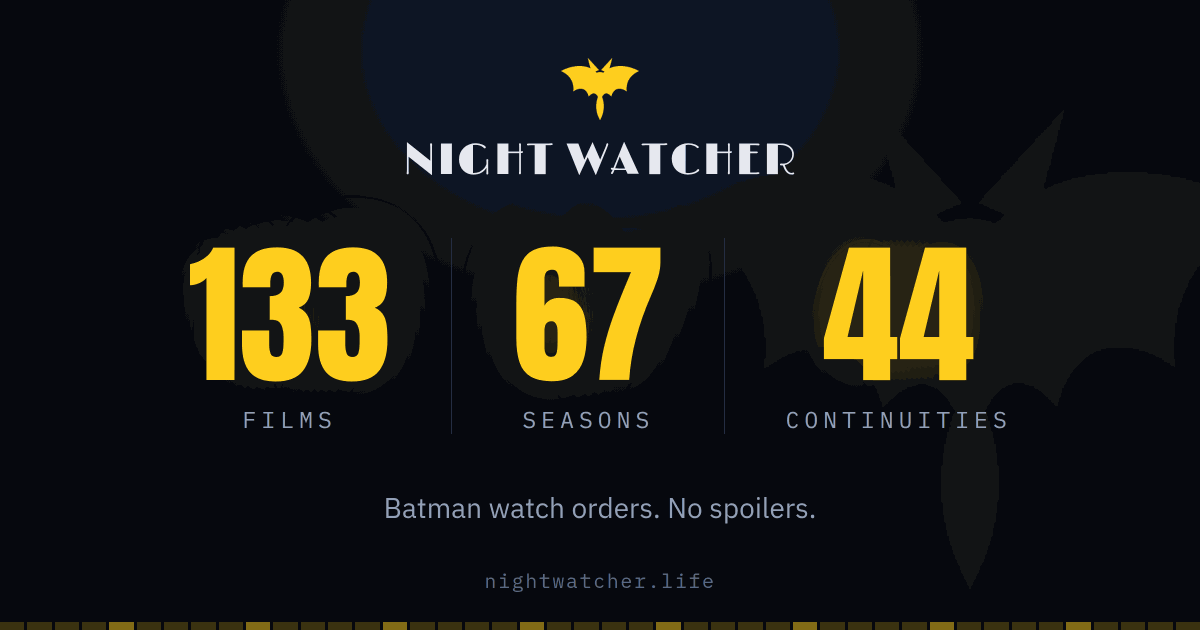
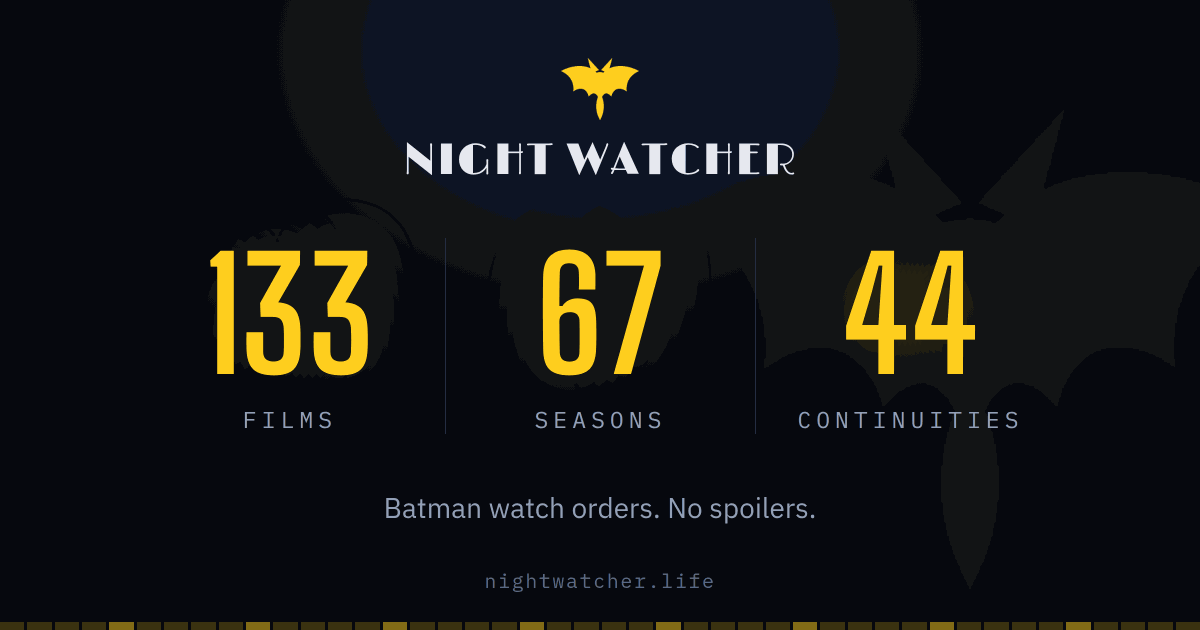
Add files via upload

diff --git a/docs/index.html b/docs/index.html
@@ -7,6 +7,7 @@
 <meta name="mobile-web-app-capable" content="yes">
 <link rel="preload" as="font" type="font/woff2" crossorigin href="fonts/limelight-latin-400-normal.woff2">
 <link rel="preload" as="font" type="font/woff2" crossorigin href="fonts/anton-latin-400-normal.woff2">
+<link rel="preload" as="font" type="font/woff2" crossorigin href="fonts/big-shoulders-display-latin-700-normal.woff2">
 <link rel="preload" as="font" type="font/woff2" crossorigin href="fonts/ibm-plex-sans-latin-400-normal.woff2">
 <link rel="preload" as="font" type="font/woff2" crossorigin href="fonts/ibm-plex-sans-latin-600-normal.woff2">
 <link rel="preload" as="font" type="font/woff2" crossorigin href="fonts/ibm-plex-mono-latin-400-normal.woff2">
@@ -41,7 +42,7 @@
 <meta name="application-name" content="Night Watcher">
 <meta name="msapplication-TileColor" content="#0C111C">
 <meta name="msapplication-TileImage" content="mstile-144x144.png">
-<meta http-equiv="Content-Security-Policy" content="default-src 'none'; script-src 'sha256-JKWD1oCQi6ymI3CISQGVk/Qqv24mOXrK3QKauN0BgAQ='; style-src 'self' 'unsafe-inline'; font-src 'self'; img-src 'self'; manifest-src 'self'; worker-src 'self'; base-uri 'none'; form-action 'none'; object-src 'none'">
+<meta http-equiv="Content-Security-Policy" content="default-src 'none'; script-src 'sha256-DCxVBzgyVPyZOkvjaK7fcqhZs13SBHVIpZQlPssrEuI='; style-src 'self' 'unsafe-inline'; font-src 'self'; img-src 'self'; manifest-src 'self'; worker-src 'self'; base-uri 'none'; form-action 'none'; object-src 'none'">
 <meta name="referrer" content="strict-origin-when-cross-origin">
 <script type="application/ld+json">{"@context":"https://schema.org","@graph":[{"@type":"WebSite","name":"Night Watcher","url":"https://nightwatcher.life/","description":"Batman watch orders. No spoilers."},{"@type":"WebApplication","name":"Night Watcher","url":"https://nightwatcher.life/","applicationCategory":"EntertainmentApplication","image":"https://nightwatcher.life/share.png","dateModified":"2026-08-18","author":{"@type":"Person","name":"6ummy-Dev","url":"https://github.com/6ummy-Dev"},"creator":{"@type":"Person","name":"6ummy-Dev","url":"https://github.com/6ummy-Dev"},"sameAs":["https://github.com/6ummy-Dev/Night-Watcher","https://x.com/6ummy"],"operatingSystem":"Any","browserRequirements":"Requires JavaScript","isAccessibleForFree":true,"featureList":["No account and no sign-in","No advertising and nothing tracking what you watch","Progress stays in your browser and is never sent anywhere","Works offline","Spoiler-safe ordering by continuity"],"description":"Every Batman story — 133 films and 67 seasons of TV across 44 continuities — in watch orders, no spoilers. By universe, by the arc of one life, or by release."},{"@type":"ItemList","name":"The essentials and the core route","description":"The 74 curated Batman titles — every essential and the whole core route — in spoiler-safe order.","numberOfItems":74,"itemListOrder":"https://schema.org/ItemListOrderAscending","itemListElement":[{"@type":"ListItem","position":1,"name":"Gotham (2014)"},{"@type":"ListItem","position":2,"name":"Batman: The Animated Series (1992)"},{"@type":"ListItem","position":3,"name":"Batman: Mask of the Phantasm (1993)"},{"@type":"ListItem","position":4,"name":"Batman & Mr. Freeze: SubZero (1998)"},{"@type":"ListItem","position":5,"name":"The New Batman Adventures (1998)"},{"@type":"ListItem","position":6,"name":"Batman: Mystery of the Batwoman (2003)"},{"@type":"ListItem","position":7,"name":"Batman Beyond (1999)"},{"@type":"ListItem","position":8,"name":"Batman Beyond: Return of the Joker (2000)"},{"@type":"ListItem","position":9,"name":"Justice League (2001)"},{"@type":"ListItem","position":10,"name":"Justice League Unlimited (2006)"},{"@type":"ListItem","position":11,"name":"Batman and Harley Quinn (2017)"},{"@type":"ListItem","position":12,"name":"Batman: Year One (2011)"},{"@type":"ListItem","position":13,"name":"Batman: The Killing Joke (2016)"},{"@type":"ListItem","position":14,"name":"Batman: Under the Red Hood (2010)"},{"@type":"ListItem","position":15,"name":"Batman: Death in the Family (2020)"},{"@type":"ListItem","position":16,"name":"The Dark Knight Returns — Part One (2012)"},{"@type":"ListItem","position":17,"name":"The Dark Knight Returns — Part Two (2013)"},{"@type":"ListItem","position":18,"name":"Batman: The Long Halloween — Part One (2021)"},{"@type":"ListItem","position":19,"name":"Batman: The Long Halloween — Part Two (2021)"},{"@type":"ListItem","position":20,"name":"Justice League: Warworld (2023)"},{"@type":"ListItem","position":21,"name":"Crisis on Infinite Earths — Part One (2024)"},{"@type":"ListItem","position":22,"name":"Crisis on Infinite Earths — Part Two (2024)"},{"@type":"ListItem","position":23,"name":"Crisis on Infinite Earths — Part Three (2024)"},{"@type":"ListItem","position":24,"name":"Batman: Gotham Knight (2008)"},{"@type":"ListItem","position":25,"name":"Batman: Gotham by Gaslight (2018)"},{"@type":"ListItem","position":26,"name":"Batman vs. Teenage Mutant Ninja Turtles (2019)"},{"@type":"ListItem","position":27,"name":"Batman: Soul of the Dragon (2021)"},{"@type":"ListItem","position":28,"name":"Injustice (2021)"},{"@type":"ListItem","position":29,"name":"The Doom That Came to Gotham (2023)"},{"@type":"ListItem","position":30,"name":"Aztec Batman: Clash of Empires (2025)"},{"@type":"ListItem","position":31,"name":"Dynamic Duo (2028)"},{"@type":"ListItem","position":32,"name":"The Batman vs. Dracula (2005)"},{"@type":"ListItem","position":33,"name":"Batman: Caped Crusader (2024)"},{"@type":"ListItem","position":34,"name":"Batman Begins (2005)"},{"@type":"ListItem","position":35,"name":"The Dark Knight (2008)"},{"@type":"ListItem","position":36,"name":"The Dark Knight Rises (2012)"},{"@type":"ListItem","position":37,"name":"The Batman (2022)"},{"@type":"ListItem","position":38,"name":"The Penguin (2024)"},{"@type":"ListItem","position":39,"name":"The Batman: Part II (2028)"},{"@type":"ListItem","position":40,"name":"Batman (1989)"},{"@type":"ListItem","position":41,"name":"Batman Returns (1992)"},{"@type":"ListItem","position":42,"name":"The LEGO Batman Movie (2017)"},{"@type":"ListItem","position":43,"name":"Batman (1943)"},{"@type":"ListItem","position":44,"name":"Batman — Complete series (1966)"},{"@type":"ListItem","position":45,"name":"Batman (1966)"},{"@type":"ListItem","position":46,"name":"Return of the Caped Crusaders (2016)"},{"@type":"ListItem","position":47,"name":"Batman vs. Two-Face (2017)"},{"@type":"ListItem","position":48,"name":"Batman: Assault on Arkham (2014)"},{"@type":"ListItem","position":49,"name":"Batman: Knightfall — Part 1 (2026)"},{"@type":"ListItem","position":50,"name":"Knightfall — Part 2: Knightquest (2026)"},{"@type":"ListItem","position":51,"name":"Knightfall — Part 3: KnightsEnd (2027)"},{"@type":"ListItem","position":52,"name":"Justice League: The New Frontier (2008)"},{"@type":"ListItem","position":53,"name":"Justice League: Crisis on Two Earths (2010)"},{"@type":"ListItem","position":54,"name":"Justice League: Doom (2012)"},{"@type":"ListItem","position":55,"name":"Justice League: Gods and Monsters (2015)"},{"@type":"ListItem","position":56,"name":"LEGO Batman: DC Super Heroes Unite (2013)"},{"@type":"ListItem","position":57,"name":"Challenge of the Super Friends (1978)"},{"@type":"ListItem","position":58,"name":"Batman: The Brave and the Bold (2008)"},{"@type":"ListItem","position":59,"name":"Scooby-Doo and Batman: The Brave and the Bold (2018)"},{"@type":"ListItem","position":60,"name":"Superman/Batman: Public Enemies (2009)"},{"@type":"ListItem","position":61,"name":"Superman/Batman: Apocalypse (2010)"},{"@type":"ListItem","position":62,"name":"Son of Batman (2014)"},{"@type":"ListItem","position":63,"name":"Batman vs. Robin (2015)"},{"@type":"ListItem","position":64,"name":"Batman: Bad Blood (2016)"},{"@type":"ListItem","position":65,"name":"Batman: Hush (2019)"},{"@type":"ListItem","position":66,"name":"LEGO DC Comics: Batman Be-Leaguered (2014)"},{"@type":"ListItem","position":67,"name":"Justice League: Gotham City Breakout (2016)"},{"@type":"ListItem","position":68,"name":"LEGO DC Batman: Family Matters (2019)"},{"@type":"ListItem","position":69,"name":"Young Justice (2010)"},{"@type":"ListItem","position":70,"name":"Batman v Superman: Dawn of Justice (2016)"},{"@type":"ListItem","position":71,"name":"Justice League (2017)"},{"@type":"ListItem","position":72,"name":"Batman Ninja (2018)"},{"@type":"ListItem","position":73,"name":"Batman Ninja vs. Yakuza League (2025)"},{"@type":"ListItem","position":74,"name":"Merry Little Batman (2023)"}]},{"@type":"FAQPage","mainEntity":[{"@type":"Question","name":"Which order should I watch Batman in?","acceptedAnswer":{"@type":"Answer","text":"Three honest answers instead of one fake one. By universe: Every universe kept whole, each in its own story order, and the universes themselves in the order their stories start. Bruce’s life: One life, in order — from before there is a Batman to after there is not. Release order: Straight release order, 1943–2028."}},{"@type":"Question","name":"Does this include the animated series?","acceptedAnswer":{"@type":"Answer","text":"Yes — all of it. 67 seasons of television ride alongside the 133 films, animated and live action both, and a switch narrows the shelf whenever you want it narrower."}},{"@type":"Question","name":"Do I have to watch everything?","acceptedAnswer":{"@type":"Answer","text":"No. 74 titles are marked as the essentials and the core route — the spine of the thing. Everything else is optional side material, labelled as exactly that."}},{"@type":"Question","name":"Is it really spoiler-safe?","acceptedAnswer":{"@type":"Answer","text":"That is the whole premise. Universes stay whole, and every ordering is built so nothing renders ahead of an entry it would give away."}},{"@type":"Question","name":"Where can I watch all of these?","acceptedAnswer":{"@type":"Answer","text":"Availability changes constantly and differs by country, so nothing here stores an answer that would rot — every entry carries a fresh where-to-watch search instead."}},{"@type":"Question","name":"Does it track what I watch?","acceptedAnswer":{"@type":"Answer","text":"No. There is no account and no sign-in, no advertising, and nothing tracking what you watch. What you tick stays in your browser and is never sent anywhere. It works offline, and it is free software under the AGPL."}},{"@type":"Question","name":"Will my progress still be here later — on another device, or if I clear my browser?","acceptedAnswer":{"@type":"Answer","text":"In this browser, yes — what you tick is saved locally and waiting when you come back. It does not travel to other browsers or devices, and clearing this browser’s data clears it, because nothing is ever kept on a server. Progress carries a code you can copy from the Progress tab and paste into another browser to move it or keep a backup."}},{"@type":"Question","name":"Is there an app, an account, or an API?","acceptedAnswer":{"@type":"Answer","text":"No account and no sign-in — nothing to register and nothing to log into. It is one web page that runs entirely in your browser, and you can install it to your home screen like an app. There is no API; every page and file the site serves is public and identical for everyone."}},{"@type":"Question","name":"Where do the Joker films fit?","acceptedAnswer":{"@type":"Answer","text":"In their own continuity, and nowhere near the rest. They are Gotham stories with no Batman in them, so they sit in a universe of their own, marked optional — nothing else in the catalogue depends on having seen them."}}]}]}</script>
 <!-- No trademarked logos, symbols, or proprietary lettering are used anywhere in
@@ -50,6 +51,7 @@
 <style>
 @font-face{font-family:"Limelight";src:url("fonts/limelight-latin-400-normal.woff2") format("woff2");font-weight:400;font-style:normal;font-display:swap;}
 @font-face{font-family:"Anton";src:url("fonts/anton-latin-400-normal.woff2") format("woff2");font-weight:400;font-style:normal;font-display:swap;}
+@font-face{font-family:"Big Shoulders Display";src:url("fonts/big-shoulders-display-latin-700-normal.woff2") format("woff2");font-weight:700;font-style:normal;font-display:swap;}
 @font-face{font-family:"IBM Plex Sans";src:url("fonts/ibm-plex-sans-latin-400-normal.woff2") format("woff2");font-weight:400;font-style:normal;font-display:swap;}
 @font-face{font-family:"IBM Plex Sans";src:url("fonts/ibm-plex-sans-latin-600-normal.woff2") format("woff2");font-weight:600;font-style:normal;font-display:swap;}
 @font-face{font-family:"IBM Plex Mono";src:url("fonts/ibm-plex-mono-latin-400-normal.woff2") format("woff2");font-weight:400;font-style:normal;font-display:swap;}
@@ -64,6 +66,7 @@
   --crimsonline:rgba(176,58,58,.5); --onCrimson:#FFFFFF;
   --deco:"Limelight","Big Shoulders Display",serif;
   --disp:"Anton","Haettenschweiler","Arial Narrow",Impact,sans-serif;
+  --num:"Big Shoulders Display","Anton","Arial Narrow",Impact,sans-serif;
   --body:"IBM Plex Sans",-apple-system,BlinkMacSystemFont,"SF Pro Text","Segoe UI",sans-serif;
   --mono:"IBM Plex Mono",ui-monospace,"SF Mono",Menlo,monospace;
   --hdr:rgba(10,12,17,.96);
@@ -272,7 +275,7 @@ main.sw::-webkit-scrollbar{display:none;}
 .bigstat .sc-done{color:var(--signal);}
 .bigstat .sc-left{color:var(--bone);}
 .bigstat .sc-skip{color:var(--steel);}
-.bigstat b{display:block;font-family:var(--disp);font-weight:400;letter-spacing:.025em;font-size:32px;line-height:1;}
+.bigstat b{display:block;font-family:var(--num);font-weight:700;letter-spacing:.025em;font-size:32px;line-height:1;}
 .bigstat span{font-family:var(--mono);font-size:9px;letter-spacing:.12em;text-transform:uppercase;color:var(--dim);display:block;margin-top:7px;}
 .srow{display:flex;align-items:center;gap:12px;padding:12px 0;border-top:1px solid var(--line);width:100%;text-align:left;min-height:46px;}
 .srow:active{background:var(--card2);}
@@ -1376,7 +1379,7 @@ function pathName(id){
   for(var i = 0; i < PATHS.length; i++){ if(PATHS[i][0] === id) return PATHS[i][1]; }
   return "";
 }
-var BUILD = "4.1.2";
+var BUILD = "4.2.0";
 var BUILT = "2026-08-18";
 var KEY = "batwatch-v3";
 var SITE = "https://nightwatcher.life/";
@@ -2504,7 +2507,7 @@ function drawShareCard(cv){
   T('400 96px Limelight', "#E7E9F0", "NIGHT WATCHER", 300);
   T('600 26px ' + MN, full ? Y : "#8B97B1",
     fresh ? "F I R S T   P A T R O L" : full ? "C A S E   C L O S E D" : "O N   P A T R O L", 390);
-  x.font = '400 230px Anton';
+  x.font = '700 230px "Big Shoulders Display", Anton';
   var a = String(c.done), b = String(c.total);
   var wa = x.measureText(a).width, ws = x.measureText(" / ").width;
   var lx = 540 - (wa + ws + x.measureText(b).width) / 2;

diff --git a/qa/share-card.html b/qa/share-card.html
@@ -8,6 +8,7 @@
 <style>
 @font-face{font-family:"Limelight";src:url("{{ROOT}}/docs/fonts/limelight-latin-400-normal.woff2") format("woff2");}
 @font-face{font-family:"Anton";src:url("{{ROOT}}/docs/fonts/anton-latin-400-normal.woff2") format("woff2");}
+@font-face{font-family:"Big Shoulders Display";src:url("{{ROOT}}/docs/fonts/big-shoulders-display-latin-700-normal.woff2") format("woff2");font-weight:700;}
 @font-face{font-family:"IBM Plex Sans";src:url("{{ROOT}}/docs/fonts/ibm-plex-sans-latin-400-normal.woff2") format("woff2");font-weight:400;}
 @font-face{font-family:"IBM Plex Mono";src:url("{{ROOT}}/docs/fonts/ibm-plex-mono-latin-400-normal.woff2") format("woff2");font-weight:400;}
 @font-face{font-family:"IBM Plex Mono";src:url("{{ROOT}}/docs/fonts/ibm-plex-mono-latin-600-normal.woff2") format("woff2");font-weight:600;}
@@ -20,9 +21,9 @@ body{background:#000;}
 #card .top img{width:78px;display:block;margin:0 auto 14px;}
 #card .top .w{font-family:"Limelight";color:#E7E9F0;font-size:44px;text-transform:uppercase;letter-spacing:.04em;}
 #card .stats{position:absolute;top:238px;left:0;width:100%;display:flex;justify-content:center;}
-#card .st{padding:0 60px;text-align:center;}
+#card .st{flex:0 0 310px;text-align:center;}
 #card .st + .st{border-left:1px solid #252E42;}
-#card .st .n{font-family:"Anton";color:#FFCF1F;font-size:154px;line-height:1;text-shadow:0 0 60px rgba(255,207,31,.18);}
+#card .st .n{font-family:"Big Shoulders Display","Anton";font-weight:700;color:#FFCF1F;font-size:154px;line-height:1;text-shadow:0 0 60px rgba(255,207,31,.18);}
 #card .st .l{font-family:"IBM Plex Mono";font-weight:400;color:#93A0B8;font-size:23px;letter-spacing:.22em;text-transform:uppercase;margin-top:12px;}
 #card .tag{position:absolute;bottom:104px;width:100%;text-align:center;font-family:"IBM Plex Sans";font-weight:400;color:#93A0B8;font-size:28px;}
 #card .site{position:absolute;bottom:36px;width:100%;text-align:center;font-family:"IBM Plex Mono";font-weight:400;color:#5f6b84;font-size:20px;letter-spacing:.08em;}

diff --git a/docs/sw.js b/docs/sw.js
@@ -16,7 +16,7 @@
  * ~190 KB index.html, so a stale cache means a stale catalogue AND stale code
  * with no way to push a fix.
  */
-var VERSION = "4.1.2";
+var VERSION = "4.2.0";
 var CACHE   = "night-watcher-" + VERSION;
 /* icon-192.png is in the shell because index.html's <head> references it
    directly for rel=icon (it used to inline the bytes). The apple-touch icon
@@ -38,6 +38,7 @@ var SHELL   = ["./", "./index.html", "./manifest.json", "./icon.png", "./icon-19
                "./icon.svg",
                "./fonts/limelight-latin-400-normal.woff2",
                "./fonts/anton-latin-400-normal.woff2",
+               "./fonts/big-shoulders-display-latin-700-normal.woff2",
                "./fonts/ibm-plex-sans-latin-400-normal.woff2",
                "./fonts/ibm-plex-sans-latin-600-normal.woff2",
                "./fonts/ibm-plex-mono-latin-400-normal.woff2",

diff --git a/qa/guards.js b/qa/guards.js
@@ -2394,6 +2394,7 @@ if(!/<label class="bklab" for="restorebox">/.test(HTML)){
 
 /* Self-hosting is redistribution, and OFL requires the licence to travel. */
 ["limelight-latin-400-normal", "anton-latin-400-normal",
+ "big-shoulders-display-latin-700-normal",
  "ibm-plex-sans-latin-400-normal", "ibm-plex-sans-latin-600-normal",
  "ibm-plex-mono-latin-400-normal", "ibm-plex-mono-latin-600-normal"].forEach(function(f){
   if(HTML.indexOf("fonts/" + f + ".woff2") < 0) fail("@font-face lost " + f);

diff --git a/qa/subset-fonts.py b/qa/subset-fonts.py
@@ -26,6 +26,8 @@ SOURCES. The originals are the @fontsource packages, unmodified:
     @fontsource/ibm-plex-mono   ibm-plex-mono-latin-{400,600}-normal.woff2
     @fontsource/anton           anton-latin-400-normal.woff2
     @fontsource/limelight       limelight-latin-400-normal.woff2
+    @fontsource/big-shoulders-display
+                                big-shoulders-display-latin-700-normal.woff2
 They are not kept in the repo; re-fetch from npm to regenerate.
 
 Guard 106 does not run this. It checks the blessed manifest against the files on
